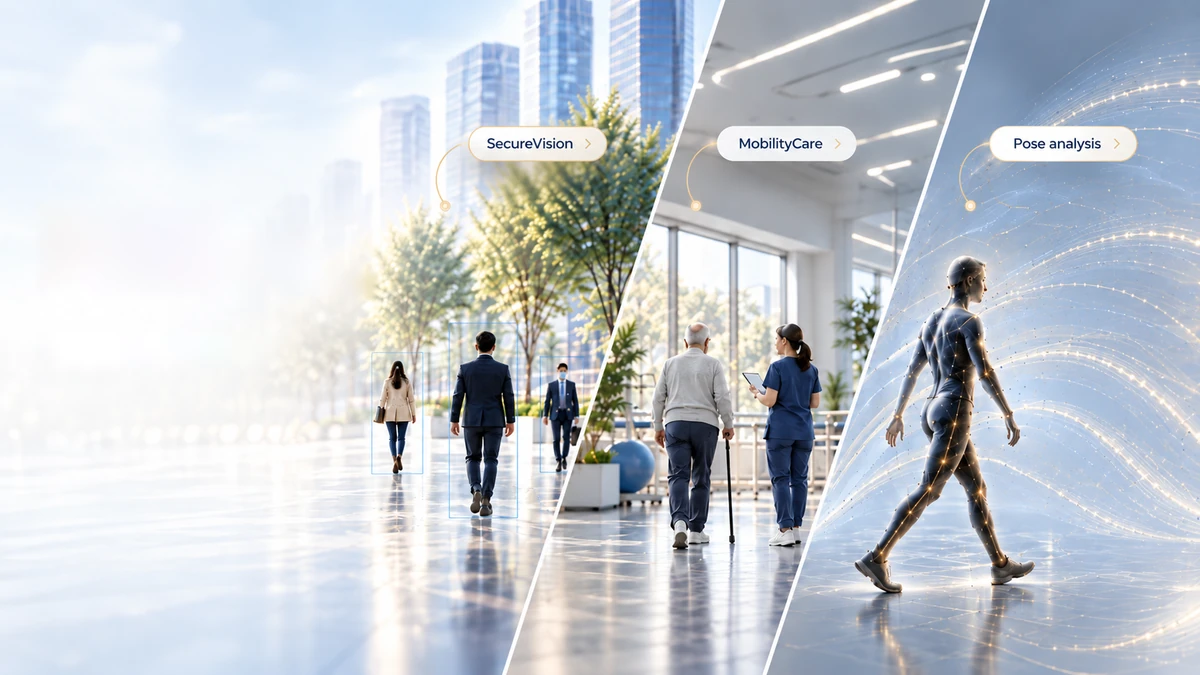
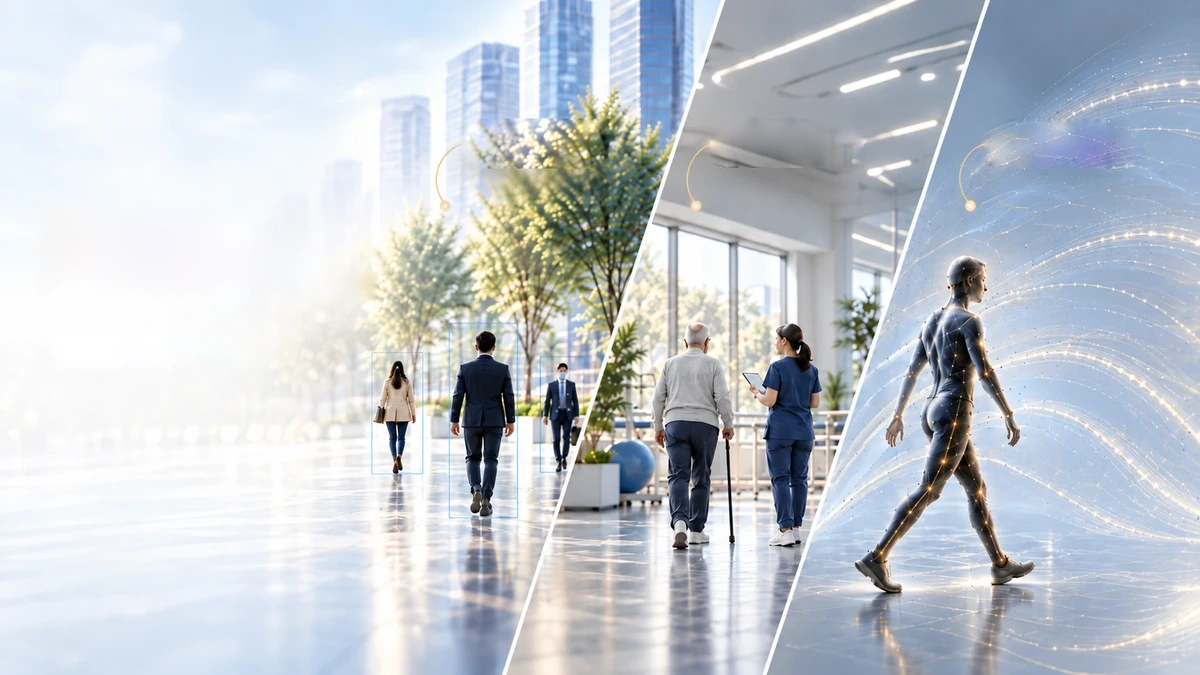
Hero pills: take them out of the paint and make them quiet
The founder asked for the three pills about a fifth smaller and visually
quieter. None of that was reachable: the plates, the labels, the chevrons and
their shadows were pixels in home-hero-gaitai.webp, with a transparent button
laid over each one. Paint has no height, padding or border to change.

So the paint comes out and the pill becomes the button. The photograph is
repaired where the three plates sat, and .hotspot now carries a label and a
chevron as real children, sized to its own words.

The repair is a hybrid, because neither half works alone. Biharmonic
diffusion gets the colour and luminance right but cannot invent texture, and
it smeared the tree and the particle field. Cloning the texture from 96 to
104 pixels below each pill carries the detail but arrives at a different
brightness, leaving a visible rectangle. Taking the low frequencies from the
diffusion and the high frequencies from the clone removes both faults. The
ceiling repair is invisible, the particle field is convincing, and the tree
keeps a slight softness that the new pill covers. Geometry is untouched at
1672x941, so the walk sprites and erase.webp from 680c4ad still line up.

Placement is unchanged. Each pill hangs from --pill-cy, the vertical centre
of the pill that used to be painted at that spot, so a shorter pill still
sits on the artwork's line. That offset uses top rather than a transform,
because pillAbsorb owns transform on this element, and the hover lift uses
[…]

Changed region(s): [[0.37, 0.1556, 0.5242, 0.2489], [0.8017, 0.1867, 0.9558, 0.2489], [0.5858, 0.1867, 0.74, 0.2489]]

diff --git a/src/components/sections/homehero.module.css b/src/components/sections/homehero.module.css
@@ -134,21 +134,88 @@
   display: contents;
 }
 
+/* ── The pills ──
+   These used to be painted into the photograph, with a transparent button
+   laid over each one. The founder asked for them smaller and quieter, and
+   paint has no size, so the three plates were repaired out of the picture
+   and the button became the pill itself.
+
+   It hangs from `--pill-cy`, the vertical centre of the pill that used to
+   be painted at that spot, so a pill that is now a fifth shorter still sits
+   on the artwork's own line. The offset is done with `top`, never a
+   transform: `pillAbsorb` owns `transform` on this element, and the hover
+   lift uses `translate` for the same reason, so neither can cancel the
+   other. Both pseudo-elements are spoken for as well — `::after` is the
+   gold sheen, `::before` is the widened hit area on a phone — which is why
+   the label and the chevron are real children.
+
+   Everything scales with the viewport, because the picture behind it does.
+   At 1920 that lands on the brief's numbers: 44px tall, 25px of side
+   padding, 17px type. */
 .hotspot {
+  --pill-h: clamp(2rem, 2.29vw, 2.875rem);
+
   position: absolute;
+  top: calc(var(--pill-cy) - var(--pill-h) / 2);
   z-index: 3;
+  display: inline-flex;
+  align-items: center;
+  gap: clamp(0.4rem, 0.52vw, 0.625rem);
+  height: var(--pill-h);
   margin: 0;
-  padding: 0;
-  border: 0;
+  padding-block: 0;
+  padding-inline: clamp(0.875rem, 1.3vw, 1.75rem);
+  font-family: inherit;
+  font-size: clamp(0.8125rem, 0.885vw, 1.125rem);
+  font-weight: 600;
+  letter-spacing: -0.005em;
+  line-height: 1;
+  white-space: nowrap;
+  color: #18213f;
+  background: rgb(250 250 247 / 0.92);
+  border: 1px solid rgb(201 176 122 / 0.55);
   border-radius: 999px;
-  background: transparent;
+  box-shadow: 0 4px 16px rgb(15 25 50 / 0.08);
   cursor: pointer;
   -webkit-tap-highlight-color: transparent;
-  transition: box-shadow 250ms ease;
+  transition:
+    color 220ms ease,
+    border-color 220ms ease,
+    background-color 220ms ease,
+    box-shadow 220ms ease,
+    translate 220ms ease;
 }
 
+.pillLabel {
+  display: block;
+}
+
+/* Smaller than the painted chevron was, and quieter: it is a direction, not
+   a control of its own. */
+.pillArrow {
+  width: 0.58em;
+  height: 0.82em;
+  flex: none;
+  opacity: 0.7;
+}
+
+/* A firmer edge and one pixel of lift. No glow, no scale. */
+.hotspot:hover {
+  border-color: rgb(201 176 122 / 0.85);
+  box-shadow: 0 6px 18px rgb(15 25 50 / 0.1);
+  translate: 0 -1px;
+}
+
+/* Open reads as a state, not a highlight: darker type, a firmer edge and a
+   hairline of light along the inside of the top. The gold ring this rule
+   used to draw belonged to a pill that was painted, not drawn. */
 .hotspot[aria-expanded="true"] {
-  box-shadow: 0 0 0 1.5px rgb(201 166 103 / 0.8);
+  color: #0d1530;
+  background: rgb(252 252 250 / 0.96);
+  border-color: rgb(186 154 92 / 0.9);
+  box-shadow:
+    0 4px 16px rgb(15 25 50 / 0.08),
+    inset 0 1px 0 rgb(255 255 255 / 0.85);
 }
 
 /* THE PILL TAKES THE PANEL BACK.

diff --git a/src/components/sections/HeroOptions.tsx b/src/components/sections/HeroOptions.tsx
@@ -1,6 +1,7 @@
 "use client";
 
 import { useCallback, useEffect, useRef, useState } from "react";
+import type { CSSProperties } from "react";
 import { HERO_OPTIONS, type HeroOptionId } from "@/data/home-hero";
 import { HeroPanelBody } from "./HeroPanelBody";
 import { useHeroTelemetry } from "./useHeroTelemetry";
@@ -326,7 +327,7 @@ export function HeroOptions() {
   return (
     <>
       {HERO_OPTIONS.map((option) => {
-        const [left, top, width, height] = option.pill;
+        const [left, top, , height] = option.pill;
         const expanded = open === option.id;
         const folding = closing.includes(option.id);
         const panelId = `hero-option-${option.id}`;
@@ -339,19 +340,40 @@ export function HeroOptions() {
               type="button"
               data-hero-option=""
               className={styles.hotspot}
-              style={{
-                left: `${left * 100}%`,
-                top: `${top * 100}%`,
-                width: `${width * 100}%`,
-                height: `${height * 100}%`,
-              }}
+              style={
+                {
+                  left: `${left * 100}%`,
+                  /* The vertical centre of the pill that used to be painted
+                     here. The button sizes itself to its own words now, and
+                     the stylesheet hangs it from this line, so a smaller pill
+                     still sits exactly where the artwork put the old one. */
+                  "--pill-cy": `${(top + height / 2) * 100}%`,
+                } as CSSProperties
+              }
               aria-label={`${option.label} — ${expanded ? "hide" : "show"} details`}
               aria-expanded={expanded}
               aria-controls={panelId}
               onClick={() =>
                 expanded ? beginClose(option.id) : beginOpen(option.id)
               }
-            />
+            >
+              <span className={styles.pillLabel}>{option.label}</span>
+              <svg
+                className={styles.pillArrow}
+                viewBox="0 0 8 12"
+                fill="none"
+                aria-hidden="true"
+                focusable="false"
+              >
+                <path
+                  d="M1.6 1.2 6.4 6l-4.8 4.8"
+                  stroke="currentColor"
+                  strokeWidth="1.6"
+                  strokeLinecap="round"
+                  strokeLinejoin="round"
+                />
+              </svg>
+            </button>
             <div
               id={panelId}
               role="region"
